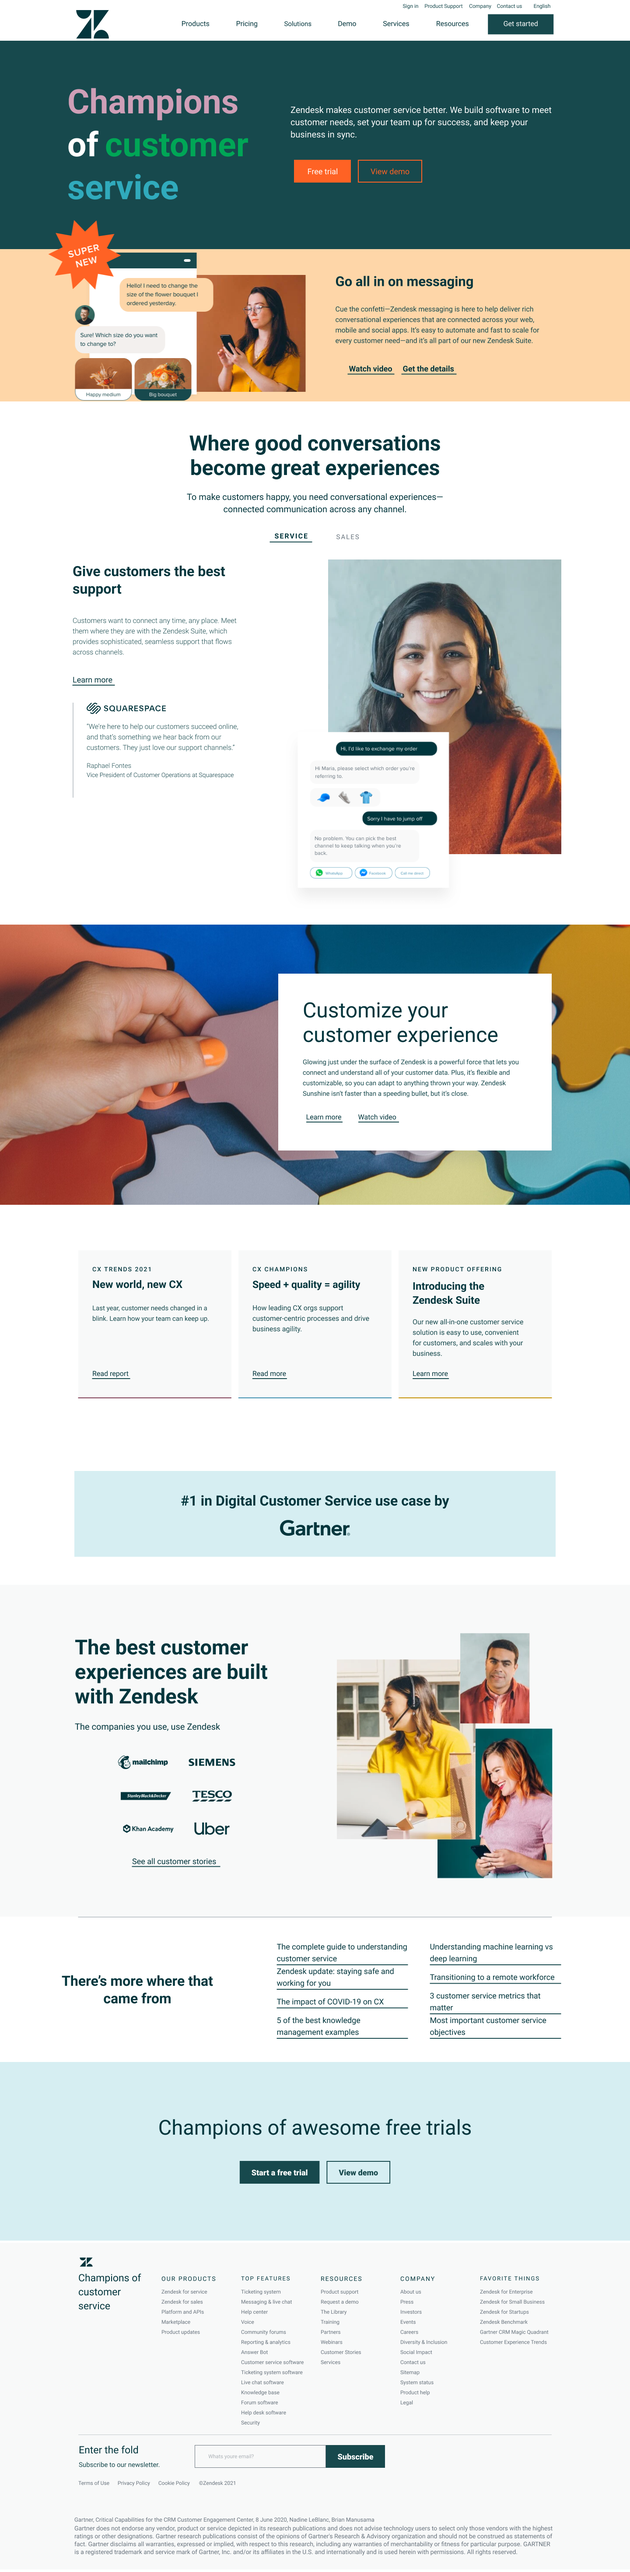
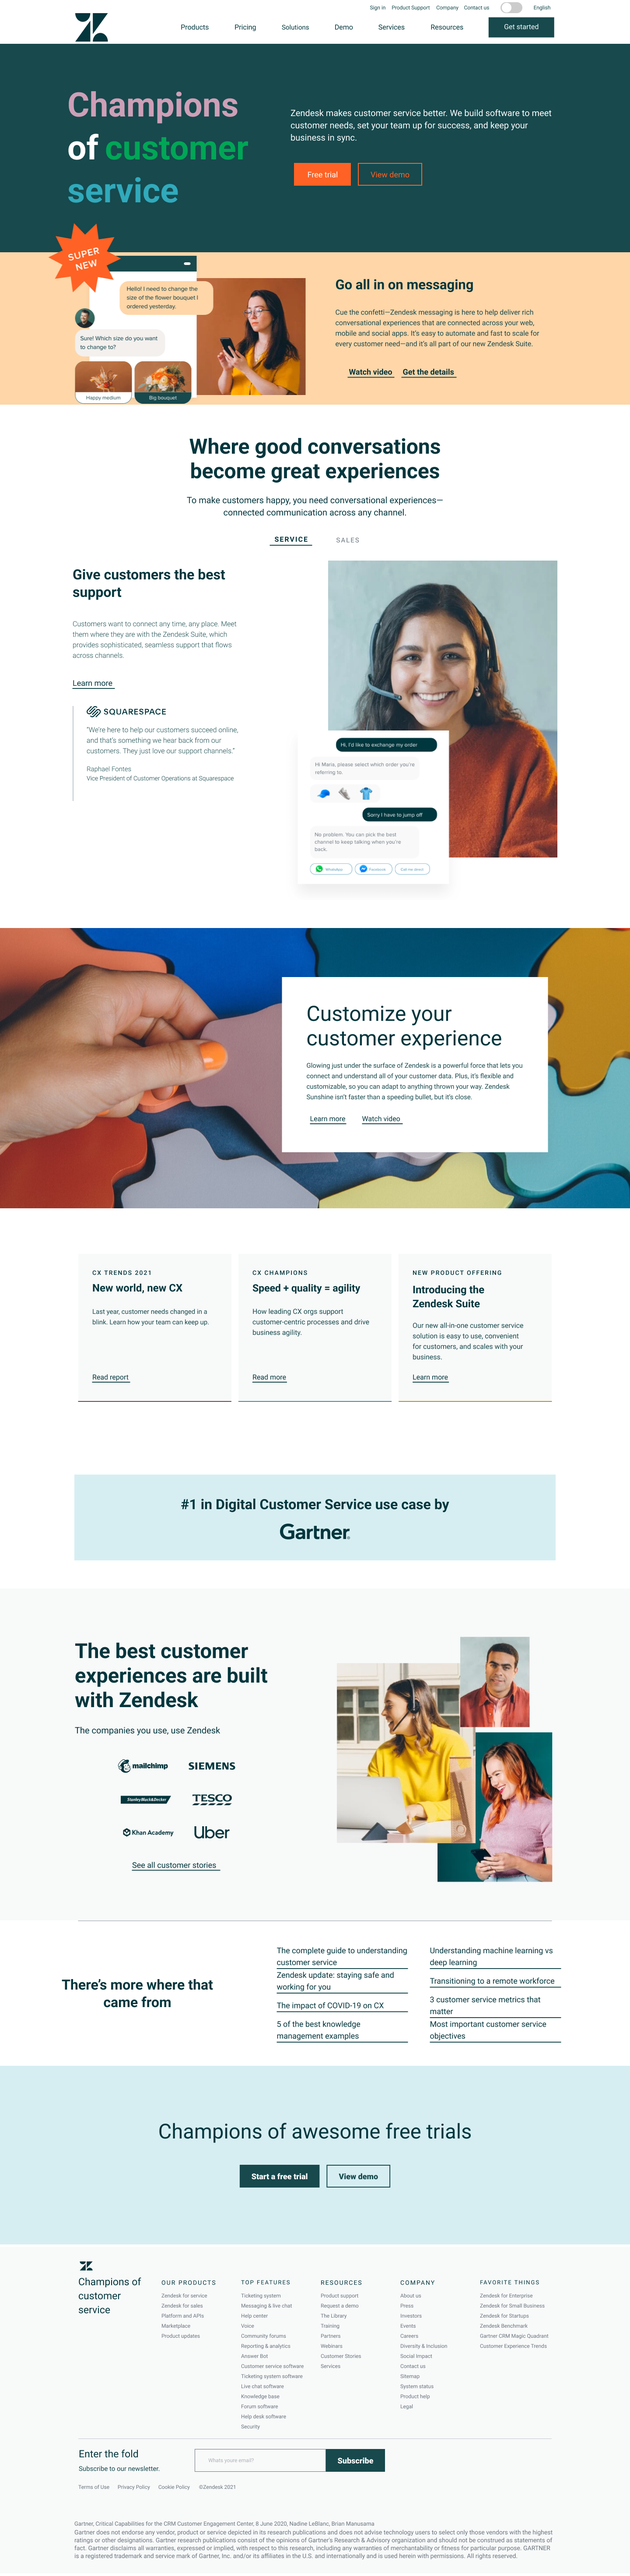
feat: add footer

diff --git a/index.html b/index.html
@@ -225,7 +225,95 @@
 
     
     <footer>
+        <section class="section-start-footer">
+            <div class="content-start-footer">
+                <div class="nav-footer">
+                    <img src="imgs/logo-zendesk.png" alt="notFoundLogo" width="36px" height="24px">
+                    <div class="content-nav-footer">
+                        <h3>Champions of customer service</h3>
+                        <div class="box-nav-footer box-our-product">
+                            <h4>Our Products</h4>
+                            <div class="box-content-footer">
+                                <a href="#">Zendesk for service</a>
+                                <a href="#">Zendesk for sales</a>
+                                <a href="#">Platform and APIs</a>
+                                <a href="#">Marketplace</a>
+                                <a href="#">Product updates</a>
+                            </div>
+                        </div>
+                        <div class="box-nav-footer box-top-features">
+                            <h4>Top Features</h4>
+                            <div class="box-content-footer">
+                                <a href="#">Ticketing system</a>
+                                <a href="#">Messaging & live chat</a>
+                                <a href="#">Help center</a>
+                                <a href="#">Voice</a>
+                                <a href="#">Community forums</a>
+                                <a href="#">Reporting & analytics</a>
+                                <a href="#">Answer Bot</a>
+                                <a href="#">Customer service software</a>
+                                <a href="#">Ticketing system software</a>
+                                <a href="#">Live chat software</a>
+                                <a href="#">Knowledge base</a>
+                                <a href="#">Forum software</a>
+                                <a href="#">Help desk software</a>
+                                <a href="#">Security</a>
+                            </div>
+                        </div>
+                        <div class="box-nav-footer box-resorces">
+                            <h4>Resources</h4>
+                            <div class="box-content-footer">
+                                <a href="#">Product support</a>
+                                <a href="#">Request a demo</a>
+                                <a href="#">The Library</a>
+                                <a href="#">Training</a>
+                                <a href="#">Partners</a>
+                                <a href="#">Webinars</a>
+                                <a href="#">Customer Stories</a>
+                                <a href="#">Services</a>
+                            </div>
+                        </div>
+                        <div class="box-nav-footer box-company">
+                            <h4>Company</h4>
+                            <div class="box-content-footer">
+                                <a href="#">About us</a>
+                                <a href="#">Press</a>
+                                <a href="#">Investors</a>
+                                <a href="#">Events</a>
+                                <a href="#">Careers</a>
+                                <a href="#">Diversity & Inclusion</a>
+                                <a href="#">Social Impact</a>
+                                <a href="#">Contact us</a>
+                                <a href="#">Sitemap</a>
+                                <a href="#">System status</a>
+                                <a href="#">Product help</a>
+                                <a href="#">Legal</a>
+                            </div>
+                        </div>
+                        <div class="box-nav-footer box-favorite-things">
+                            <h4>Favorite Things</h4>
+                            <div class="box-content-footer">
+                                <a href="#">Zendesk for Enterprise</a>
+                                <a href="#">Zendesk for Small Business</a>
+                                <a href="#">Zendesk for Startups</a>
+                                <a href="#">Zendesk Benchmark</a>
+                                <a href="#">Gartner CRM Magic Quadrant</a>
+                                <a href="#">Customer Experience Trends</a>
+                            </div>
+                        </div>
+                    </div>
+                </div>  
+                <div></div>
+                <div></div>
+                <div></div>
+            </div>
+        </section>
+
+
         
+        <section>
+            
+        </section>
     </footer>
 </body>
 </html>

diff --git a/css/element-layout.css b/css/element-layout.css
@@ -329,3 +329,74 @@ nav div {
     gap: 16px;
 
 }
+footer {
+    display: flex;
+    padding: 5px 0px;
+    flex-direction: column;
+    justify-content: center;
+    align-items: center;
+}
+.section-start-footer {
+    display: flex;
+    padding: 32px 163px;
+    flex-direction: column;
+    justify-content: center;
+    align-items: center;
+    gap: 10px;
+}
+.content-start-footer {
+    display: flex;
+    padding: 0px 16px;
+    flex-direction: column;
+    justify-content: center;
+    align-items: center;
+    gap: 10px;
+}
+.nav-footer {
+    display: flex;
+    flex-direction: column;
+    justify-content: center;
+    align-items: flex-start;
+    gap: 8px;
+}
+.content-nav-footer {
+    display: flex;
+    justify-content: center;
+    align-items: flex-start;
+    align-content: flex-start;
+    gap: 10px;
+}
+.content-nav-footer h3 {
+    min-width: 120px;
+    max-width: 172px;
+}
+.box-nav-footer {
+    display: flex;
+    min-width: 150px;
+    padding: 7px 8px;
+    flex-direction: column;
+    align-items: flex-start;
+    gap: 9px;
+    flex: 1 0 0;
+}
+.box-our-product {
+    width: 156px;}
+.box-top-features {
+    width: 156px;
+}
+.box-resorces {
+    width: 156px;
+}
+.box-company {
+    width: 156px;
+}
+.box-favorite-things {
+    width: 156px;
+}
+.box-content-footer {
+    display: flex;
+    flex-direction: column;
+    align-items: flex-start;
+    gap: 3px;
+
+}

diff --git a/css/styles-elements.css b/css/styles-elements.css
@@ -386,7 +386,7 @@ nav ul li a {
 
     text-align: center;
     font-family: Roboto;
-    font-size: 49px;
+    font-size: 53   px;
     font-style: normal;
     font-weight: 400;
     line-height: 56px;
@@ -417,4 +417,31 @@ nav ul li a {
     width: 146px;
     height: 52px;
     border: 2px solid #17494D;
+}
+.content-nav-footer h3 {
+    color: #03363D;
+    font-family: Roboto;
+    font-size: 26px;
+    font-style: normal;
+    font-weight: 400;
+    line-height: 32px;
+}
+.box-nav-footer h4 {
+    color: #03363D;
+    font-family: Roboto;
+    font-size: 16px;
+    font-style: normal;
+    font-weight: 400;
+    line-height: 22px;
+    letter-spacing: 2px;
+    text-transform: uppercase;
+}
+.box-content-footer a{
+    color: #68737D;
+    font-family: Roboto;
+    font-size: 14px;
+    font-style: normal;
+    font-weight: 400;
+    line-height: 19.5px;
+    text-decoration: none;
 }
